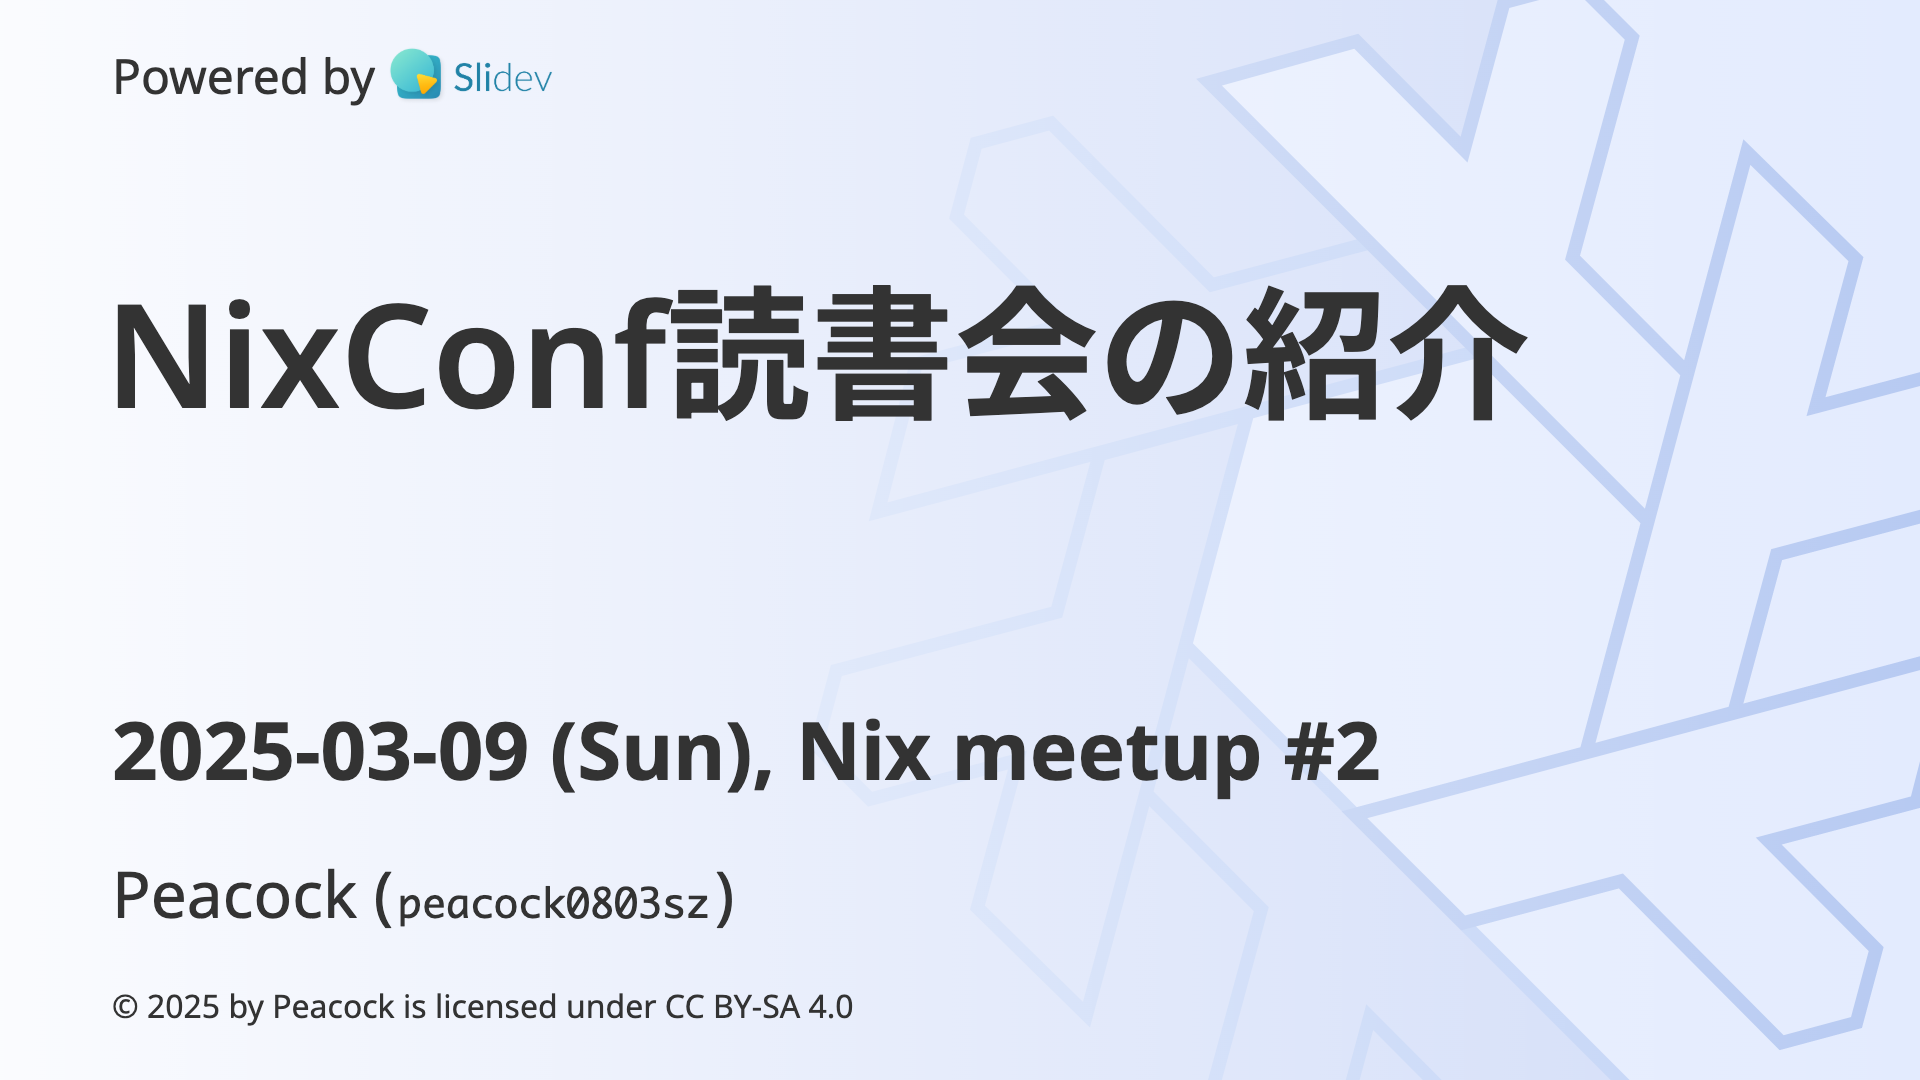
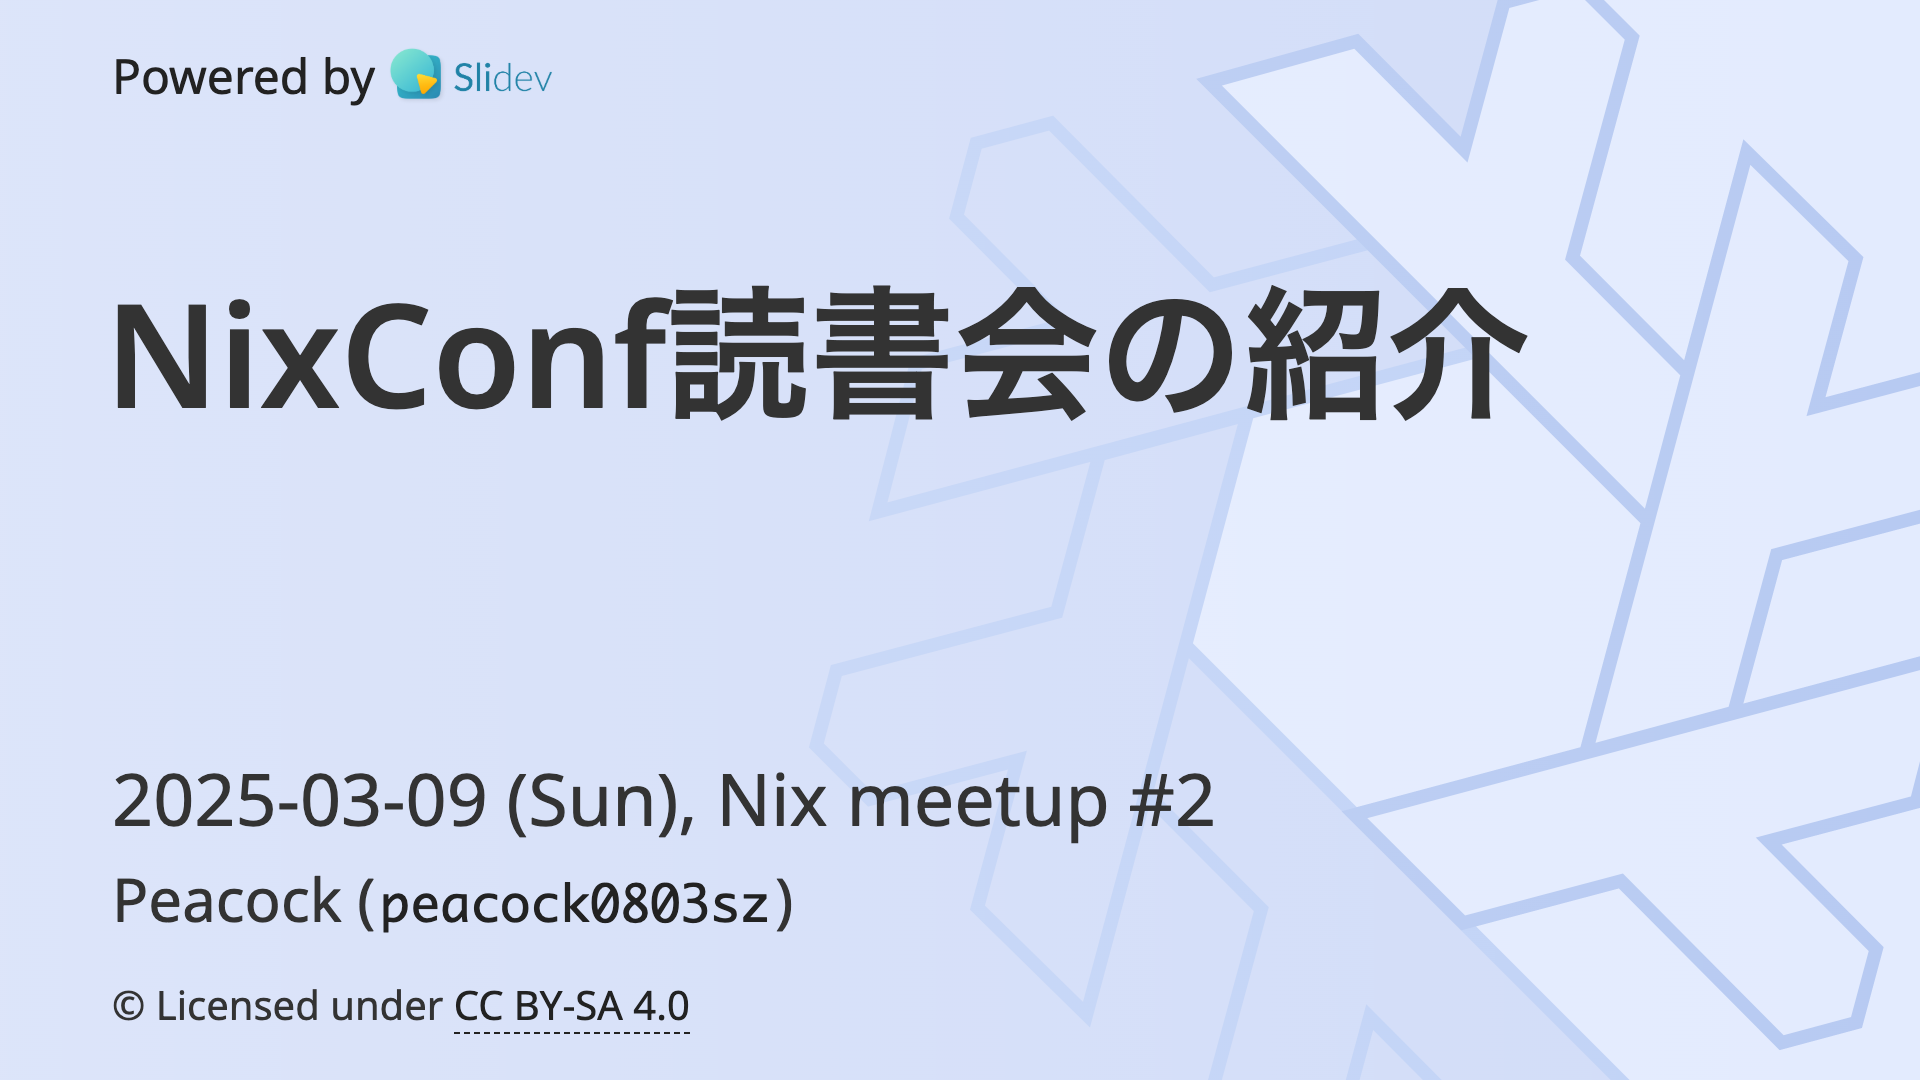
Update nix-meetup2

Changed region(s): [[0.0, 0.0, 0.7188, 1.0], [0.3438, 0.275, 0.5938, 0.3972], [0.5938, 0.275, 0.7812, 0.3972]]

diff --git a/talks/2025-03-09_nix-meetup2/styles/layout.css b/talks/2025-03-09_nix-meetup2/styles/layout.css
@@ -1,10 +1,7 @@
 @import url("https://fonts.googleapis.com/css2?family=Noto+Sans:ital,wght@0,100..900;1,100..900&family=Roboto+Mono:ital,wght@0,100..700;1,100..700&family=Roboto:ital,wght@0,100..900;1,100..900&display=swap");
 
 .slidev-layout:not(.override) {
-  background-image: linear-gradient(to right,
-      rgba(239, 239, 239, 75%),
-      rgba(239, 239, 239, 75%)),
-    url("../assets/nix-wallpaper-nineish-catppuccin-latte.png");
+  background-image: url("../assets/nix-wallpaper-nineish-catppuccin-latte.png");
   background-size: cover;
   font-size: 24px;
 }
@@ -13,7 +10,11 @@
   font-family: "Noto Sans", "Noto Sans JP", sans-serif;
   font-weight: 400;
   font-size: 24px;
-  color: #333333;
+  color: #222;
+}
+
+.slidev-layout:not(.override) p {
+  line-height: 1.5;
 }
 
 .slidev-layout:not(.override) h1>code,
@@ -39,12 +40,14 @@ h6>code {
 }
 
 .slidev-layout:not(.override) h1 {
+  color: #415e9a;
   margin-bottom: 1.5rem;
   font-size: 36px;
   font-weight: 700;
 }
 
 .slidev-layout:not(.override) h2 {
+  color: #4a6baf;
   margin-top: 1.5rem;
   margin-bottom: 1.5rem;
   font-size: 36px;
@@ -55,6 +58,10 @@ h6>code {
   margin-top: 1.5rem;
   margin-bottom: 1.5rem;
   font-size: 36px;
+  font-weight: 700;
+}
+
+.slidev-layout:not(.override) strong {
   font-weight: 700;
 }
 

diff --git a/talks/2025-03-09_nix-meetup2/layouts/cover.vue b/talks/2025-03-09_nix-meetup2/layouts/cover.vue
@@ -1,7 +1,7 @@
 <template>
   <div class="slidev-layout cover">
     <div class="container">
-      <PoweredBySlidev class="text-[#333333] text-lg absolute top-5" />
+      <PoweredBySlidev class="text-[#222] text-lg absolute top-5" />
       <slot />
     </div>
   </div>
@@ -10,7 +10,7 @@
 <style lang="css">
 .slidev-layout.cover {
   background-image: linear-gradient(to right,
-      rgba(255, 255, 255, 90%),
+      rgba(255, 255, 255, 25%),
       rgba(255, 255, 255, 0%)),
     url("../assets/nix-wallpaper-nineish.png");
   background-size: cover;
@@ -21,17 +21,20 @@
 }
 
 .slidev-layout.cover h1 {
+  color: #333;
   font-size: 72px;
   font-weight: 600;
   line-height: 1;
 }
 
 .slidev-layout.cover h2 {
+  color: #333;
   font-size: 60px;
   font-weight: 500;
 }
 
 .slidev-layout.cover h3 {
+  color: #333;
   font-size: 36px;
   font-weight: 400;
   position: absolute;
@@ -39,12 +42,14 @@
 }
 
 .slidev-layout.cover h4 {
+  color: #333;
   font-size: 30px;
   position: absolute;
   bottom: 75px;
 }
 
 .slidev-layout.cover h5 {
+  color: #333;
   font-size: 20px;
   position: absolute;
   bottom: 25px;

diff --git a/talks/2025-03-09_nix-meetup2/layouts/intro.vue b/talks/2025-03-09_nix-meetup2/layouts/intro.vue
@@ -1,6 +1,14 @@
 <template>
   <div class="slidev-layout intro">
-    <slot />
+    <div class="my-auto w-full">
+      <slot />
+    </div>
+    <footer>
+      <div class="text-right absolute bottom-5 right-5 z-10">
+        <SlideCurrentNo /> /
+        <SlidesTotal />
+      </div>
+    </footer>
   </div>
 </template>
 
@@ -11,22 +19,30 @@
       rgba(255, 255, 255, 25%)),
     url("../assets/nix-wallpaper-nineish-catppuccin-latte-alt.png");
   background-size: cover;
-  color: #222;
+  color: #333;
 }
 
 .slidev-layout.intro h1 {
+  color: #333;
   font-size: 48px;
   font-weight: 600;
   margin-bottom: 50px;
 }
 
 .slidev-layout.intro h2 {
+  color: #333;
   font-size: 48px;
   font-weight: 500;
   margin-top: 50px;
 }
 
+.slidev-layout.intro h2>svg {
+  width: 48px;
+  height: 48px;
+}
+
 .slidev-layout.intro h3 {
+  color: #333;
   font-size: 36px;
   margin-top: 10px;
   margin-bottom: 10px;

diff --git a/talks/2025-03-09_nix-meetup2/layouts/section.vue b/talks/2025-03-09_nix-meetup2/layouts/section.vue
@@ -9,25 +9,30 @@
 <style>
 .slidev-layout.section {
   background-image: linear-gradient(to right,
-      rgba(239, 239, 239, 75%),
-      rgba(239, 239, 239, 75%)),
+      rgba(253, 246, 227, 50%),
+      rgba(253, 246, 227, 0%)),
     url("../assets/nix-wallpaper-nineish-solarized-light.png");
   background-size: cover;
 
   display: flex;
   flex-direction: column;
   justify-content: center;
-  color: #111;
+  color: #333;
 }
 
 .slidev-layout.section h1 {
+  color: #333;
   font-weight: 700;
   line-height: 1.5;
   font-size: 60px;
   padding-bottom: 20px;
+  background: linear-gradient(to right,
+      rgba(253, 246, 227, 0%),
+      rgba(253, 246, 227, 50%));
 }
 
 .slidev-layout.section h2 {
+  color: #333;
   font-weight: 700;
   font-size: 36px;
 }

diff --git a/talks/2025-03-09_nix-meetup2/layouts/profile.vue b/talks/2025-03-09_nix-meetup2/layouts/profile.vue
@@ -1,6 +1,14 @@
 <template>
   <div class="slidev-layout profile">
-    <slot />
+    <div class="my-auto w-full">
+      <slot />
+    </div>
+    <footer>
+      <div class="text-right absolute bottom-5 right-5 z-10">
+        <SlideCurrentNo /> /
+        <SlidesTotal />
+      </div>
+    </footer>
   </div>
 </template>
 

diff --git a/talks/2025-03-09_nix-meetup2/layouts/toc.vue b/talks/2025-03-09_nix-meetup2/layouts/toc.vue
@@ -1,6 +1,14 @@
 <template>
   <div class="slidev-layout toc">
-    <slot />
+    <div class="my-auto w-full">
+      <slot />
+    </div>
+    <footer>
+      <div class="text-right absolute bottom-5 right-5 z-10">
+        <SlideCurrentNo /> /
+        <SlidesTotal />
+      </div>
+    </footer>
   </div>
 </template>
 

diff --git a/talks/2025-03-09_nix-meetup2/slides.md b/talks/2025-03-09_nix-meetup2/slides.md
@@ -21,7 +21,7 @@ layout: intro
 hideInToc: true
 ---
 
-# 本日の資料 (URL or QRコード)
+# 本日の資料はこちら
 
 ### [https://slides.p3ac0ck.net/nix-meetup2/](https://slides.p3ac0ck.net/nix-meetup2/)
 
@@ -34,9 +34,9 @@ layout: toc
 hideInToc: true
 ---
 
-# 目次
+# 目次 / おしながき
 
-<Toc maxDepth="2" columns="2"/>
+<Toc maxDepth="2" columns="1" />
 
 ---
 layout: profile
@@ -46,12 +46,12 @@ layout: profile
 
 # お前、誰よ (自己紹介)
 
-- 名前: Peacock (高井 陽一), SNS => `peacock0803sz`
+- 名前: [Peacock (高井 陽一)](https://p3ac0ck.net), SNS => `peacock0803sz`
 - 仕事: [(株) G-gen](https://g-gen.co.jp/)でGoogle Cloudの技術サポート
     - [Google Cloud Partner Top Engineer 2025受賞](https://g-gen.co.jp/news/pte_2025.html)
 - 環境: macOS, WezTerm, fish, Neovim
 - 技術イベント、カンファレンスが大好き
-    - PyCon JP 2020 - [2025](https://2025.pycon.jp/)主催メンバー(スタッフ)
+    - PyCon JP 2020 ~ [2025](https://2025.pycon.jp/)主催メンバー(スタッフ)
     - [PyCon JP TV](https://tv.pycon.jp)ディレクター
 - 趣味: クラシック音楽、カメラ(α7R III)、ビールなど
     - 技術カンファレンスの撮影スタッフも
@@ -77,43 +77,81 @@ layout: section
 
 ## 開催のきっかけ
 
+- 2024年ごろから[vim-jp](https://vim-jp.org/) SlackではNixがブームで、専用チャンネル `#tech-nix` も本記事執筆時点で約300人のメンバーがいる人気コンテンツ
 - vim-jpでは[vimrc読書会](https://vim-jp.org/reading-vimrc/)が開催されている
     - 毎週オンラインでチャットに集まって誰かの `.vimrc` を読む会
-- 2024年ごろから[vim-jp](https://vim-jp.org/) SlackではNixがブームで、専用チャンネル `#tech-nix` も本記事執筆時点で約300人のメンバーがいる人気コンテンツ
 - 昨年2024-12-10に「vimrc読書会のようなnix dotfiles輪読会が欲しい」と `@satler` さんが発言していた
 
 ---
 
-それなら、と「せっかくだしnix-jaの方でやりませんか?」と私が提案した
+=> それなら、と「せっかくだしnix-jaの方でやりませんか?」と私が提案した
 
 ![](/background.png)
 
 ただしvimrc読書会(全てチャットのみでやり取り)とは違って、音声チャットも使いながら進める
 
 ---
+
+# 読書会に参加するには
+
+1. nix-jaのDiscordサーバーとCosense(Scrapbox)に参加する
+    - Discord招待: <https://discord.com/invite/TYytzedtbe>
+    - Cosense招待: <https://scrapbox.io/projects/nix-ja/invitations/083e0694c75dde3d86c4653718197c97>
+1. (任意): Discordサーバーの[読書会イベント](https://discord.gg/x3NWnPY6?event=1344492171226513479)をフォロー
+1. 隔週日曜日の20:00になったらDiscordで音声チャンネル`#読書会`に参加
+    - 声が出せる環境でなくてもイヤホンがあれば参加可能
+1. Cosenseページに気づいたことを色々書いていく
+
+---
 layout: section
 ---
 
-# 開催遍歴を振り返る
+# 今までの読書会 & 今後の展望
 
 ---
 layout: table
-hideInToc: true
 ---
 
-# 開催遍歴を振り返る
+## 開催遍歴を振り返る
 
-|  No | 開催日時                 | 対象リポジトリ                   |
-| --: | :----------------------: | :------------------------------- |
-|  #1 | 2024-12-20 16:00 ~ 16:30 | `github:peacock0803sz/dotfiles`  |
-|  #2 | 2024-12-20 16:00 ~ 16:30 | `github:yasunori0418/dotfiles`   |
-|  #3 | 2025-01-05 16:15 ~ 16:45 | `github:asa1984/dotfiles` (前編) |
-|  #4 | 2025-01-12 16:00 ~ 16:30 | `github:asa1984/dotfiles` (後編) |
-|  #5 | 2025-01-20 16:00 ~ 16:30 | `github:tositada17/nixos-wsl`    |
-|  #6 | 2025-01-26 16:00 ~ 16:30 | `github:kuuote/nixconf`          |
-|  #7 | 2025-02-16 16:00 ~ 16:30 | `github:LnL7/dotfiles`           |
-|  #8 | 2025-03-02 20:00 ~ 20:30 | `github:NixOS/nixpkgs/lib`       |
+|  No | 開催日時                 | 対象リポジトリ                                                                                                   |
+| --: | :----------------------: | :--------------------------------------------------------------------------------------------------------------- |
+|  #1 | 2024-12-20 16:00 ~ 16:30 | [`github:peacock0803sz/dotfiles`](https://github.com/peacock0803sz/dotfiles/)                                    |
+|  #2 | 2024-12-20 16:00 ~ 16:30 | [`github:yasunori0418/dotfiles`](https://github.com/yasunori0418/dotfiles)                                       |
+|  #3 | 2025-01-05 16:15 ~ 16:45 | [`github:asa1984/dotfiles`](https://github.com/asa1984/dotfiles) (前編)                                          |
+|  #4 | 2025-01-12 16:00 ~ 16:30 | [`github:asa1984/dotfiles`](https://github.com/asa1984/dotfiles) (後編)                                          |
+|  #5 | 2025-01-20 16:00 ~ 16:30 | [`github:tositada17/nixos-wsl`](https://github.com/tositada17/nixos-wsl)                                         |
+|  #6 | 2025-01-26 16:00 ~ 16:30 | [`github:kuuote/nixconf`](https://github.com/kuuote/nixconf)                                                     |
+|  #7 | 2025-02-16 16:00 ~ 16:30 | [`github:LnL7/dotfiles`](https://github.com/LnL7/dotfiles)                                                       |
+|  #8 | 2025-03-02 20:00 ~ 20:30 | [`github:NixOS/nixpkgs/lib`](https://github.com/NixOS/nixpkgs/tree/7daee98dd85539a25440feaac0cb8ad4e461253f/lib) |
 
 ---
 
-# NixConf読書会のこれから
+## 直近のNixConf読書会(予定を含む)
+
+1. 取り上げる対象の拡大
+    - 界隈の有名人dotfilesを主軸に
+    - NixConf(設定ファイル)に限らず、Nixpkgs, NixOS本体のソースも
+    - コードだけではなくドキュメント類も含めたい
+        - [Nixpkgs Reference Manual](https://nixos.org/manual/nixpkgs/stable/), [NixOS Manual](https://nixos.org/manual/nixos/stable/)など
+1. 「NixConf読書会」から「 **Nix読書会** 」へ名称変更(予定)
+    - NixConf(設定ファイル)からNix関連のリソース全般に拡大するため
+
+---
+layout: section
+---
+
+# さいごに
+
+---
+
+## 運営メンバー募集中!
+
+- 現状の運営メンバーが**Peacock一人のみ**の状況
+- 過去に準備が追い付かなかったり、当日出られないことも複数回あった
+- ので、一緒に運営やってくれる人を探しています(連絡ください)
+    - やること: 開催準備やCosenseのメンテナンス
+- 開催準備タスクは難しくない
+    1. 推薦スレッドから対象をピックアップ
+    1. Cosenseのテンプレページ([#0](https://scrapbox.io/nix-ja/NixConf読書会%230))をコピーして当日の議事録を作成
+    1. (余裕があれば): Discordやその他各所で告知する
